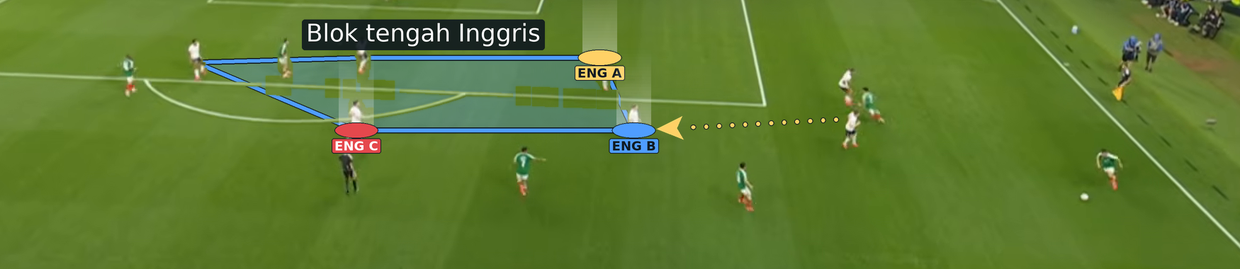
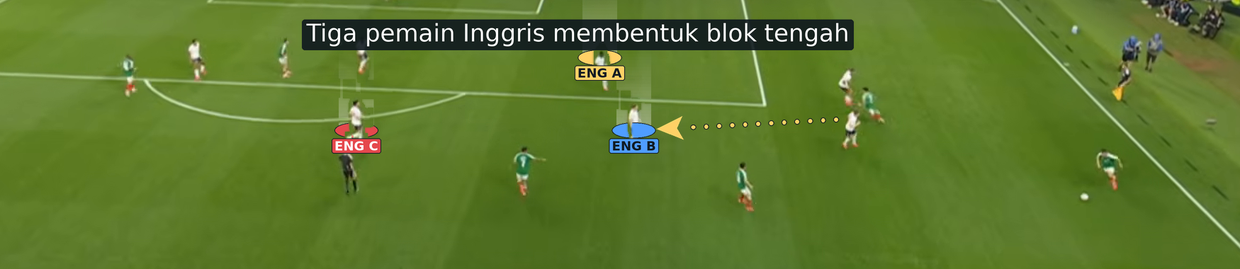
Release 0.1.0a11: layered player markers (ground) and refreshed real-match README still

Changed region(s): [[0.1532, 0.0595, 0.7048, 0.5353]]

diff --git a/src/once_sport_mcp/rendering.py b/src/once_sport_mcp/rendering.py
@@ -707,6 +707,7 @@ GROUND_KINDS = frozenset(
         "spotlight",
         "lob",
         "trail",
+        "player_marker",
     }
 )
 # Whole-mark opacity (a constant alpha on the painted mark) for strokes.
@@ -1134,10 +1135,16 @@ def _paint_frame(path, event, drawings, time, overlay_cache):
     _paint(
         path, event, grounded, time, overlay_cache["ground"], footer=False, ground=True
     )
+    # Layered player markers keep their text tag on top of the players.
+    tags = [
+        {**m, "ground": False, "tag_only": True}
+        for m in grounded
+        if m["kind"] == "player_marker"
+    ]
     _paint(
         path,
         event,
-        [m for m in drawings if not m.get("ground")],
+        [m for m in drawings if not m.get("ground")] + tags,
         time,
         overlay_cache["rest"],
     )
@@ -1376,36 +1383,43 @@ def _paint(
                 size = float(mark.get("size", 1.0))
                 rx = 0.0155 * width * scale * size
                 ry = rx * 0.34
+                tag_only = bool(mark.get("tag_only"))
                 column_h = 0.105 * height * scale * size
-                column = Image.new("RGBA", target_layer.size)
-                column_pen = ImageDraw.Draw(column)
-                steps = 24
-                for index in range(steps):
-                    column_pen.rectangle(
+                if not tag_only:
+                    column = Image.new("RGBA", target_layer.size)
+                    column_pen = ImageDraw.Draw(column)
+                    steps = 24
+                    for index in range(steps):
+                        column_pen.rectangle(
+                            (
+                                ax - rx * 0.82,
+                                ay - column_h * (index + 1) / steps,
+                                ax + rx * 0.82,
+                                ay - column_h * index / steps,
+                            ),
+                            fill=(
+                                255,
+                                255,
+                                255,
+                                round(95 * (1 - index / steps) ** 1.2),
+                            ),
+                        )
+                    target_layer = Image.alpha_composite(target_layer, column)
+                    target_pen = ImageDraw.Draw(target_layer)
+                    target_pen.ellipse(
                         (
-                            ax - rx * 0.82,
-                            ay - column_h * (index + 1) / steps,
-                            ax + rx * 0.82,
-                            ay - column_h * index / steps,
+                            ax - rx - scale,
+                            ay - ry - scale,
+                            ax + rx + scale,
+                            ay + ry + scale,
                         ),
-                        fill=(255, 255, 255, round(95 * (1 - index / steps) ** 1.2)),
+                        fill=halo,
                     )
-                target_layer = Image.alpha_composite(target_layer, column)
-                target_pen = ImageDraw.Draw(target_layer)
-                target_pen.ellipse(
-                    (
-                        ax - rx - scale,
-                        ay - ry - scale,
-                        ax + rx + scale,
-                        ay + ry + scale,
-                    ),
-                    fill=halo,
-                )
-                target_pen.ellipse((ax - rx, ay - ry, ax + rx, ay + ry), fill=color)
+                    target_pen.ellipse((ax - rx, ay - ry, ax + rx, ay + ry), fill=color)
                 tag = " | ".join(
                     part for part in (mark.get("position"), mark.get("text")) if part
                 )
-                if tag:
+                if tag and not ground:
                     tag_fill = mark.get("tag_color", "#FFFFFF")
                     tag_font = _font(max(10, round(height / 60)) * scale, bold=True)
                     box = target_pen.textbbox((0, 0), tag, font=tag_font)

diff --git a/tests/test_stabilize_ground.py b/tests/test_stabilize_ground.py
@@ -137,3 +137,37 @@ def test_ground_drawing_does_not_tint_players(tmp_path):
     assert (np.abs(player - 240).sum(axis=2) < 12).mean() > 0.9  # untouched
     tinted = out[100:140, 100:200]
     assert (tinted[:, :, 0] - frame[100:140, 100:200, 0].astype(int)).mean() > 20
+
+
+def test_layered_player_marker_keeps_the_player_on_top_and_the_tag_above(tmp_path):
+    np = pytest.importorskip("numpy")
+    from PIL import Image
+
+    frame = np.zeros((360, 640, 3), np.uint8)
+    for column in range(0, 640, 60):
+        frame[:, column : column + 60] = (
+            (52, 128, 48) if (column // 60) % 2 else (46, 118, 42)
+        )
+    frame[150:210, 300:318] = (240, 240, 240)  # a white-kit player, feet at y=210
+    path = tmp_path / "f.png"
+    Image.fromarray(frame).save(path)
+    marker = mark(
+        "player_marker",
+        points=[[309 / 640, 208 / 360]],
+        text="ENG",
+        color="#E5484D",
+        tag_color="#FFD166",
+        size=2.0,
+        ground=True,
+    )
+    cache = {"rest": [None, None], "ground": [None, None]}
+    rendering._paint_frame(path, EVENT, [marker], 0.5, cache)
+    out = np.asarray(Image.open(path).convert("RGB")).astype(int)
+    body = out[160:200, 304:314]
+    assert (np.abs(body - 240).sum(axis=2) < 12).mean() > 0.9  # column/ring not on him
+    ring = out[200:216, 260:360]
+    assert ((ring[:, :, 0] > 200) & (ring[:, :, 1] < 120)).sum() > 40  # ring on grass
+    tag = out[212:240, 270:350]
+    assert (
+        (tag[:, :, 0] > 230) & (tag[:, :, 1] > 190) & (tag[:, :, 2] < 140)
+    ).sum() > 40

diff --git a/README.md b/README.md
@@ -51,7 +51,7 @@ Turns a host agent's analysis of a football video into reviewed, reproducible ou
 ## Status
 <a id="section-status"></a>
 
-**Pre-release (`0.1.0a10`).** Interfaces may change. Tested on Linux with Python 3.13 and FFmpeg only.
+**Pre-release (`0.1.0a11`).** Interfaces may change. Tested on Linux with Python 3.13 and FFmpeg only.
 
 - Native Once export rejects holds, speed segments, text, flags and the newer drawing kinds; use the custom renderer for them.
 - Tracking is seeded by the host, one target per job. There is no re-identification, occlusion recovery or automatic player detection.
@@ -144,7 +144,7 @@ Drawing kinds (custom renderer): `ellipse`, `arrow`, `line`, `polygon`, `label`,
 - **Pitch templates:** `build_pitch_drawings` (CLI `pitch`) projects a circle, rectangle, half-spaces, five channels, zone 14, a zone grid, a cover shadow or an offside line through a 4-point pitch calibration (metres on a 105x68 pitch to normalized frame points), so shapes follow the pitch perspective. The calibration is fixed: use it for a static camera or a short shot. Pitch templates are projected with a fixed calibration, so combine them with `stabilize` for a moving camera.
 
   ![Pitch templates through a perspective calibration](assets/pitch-templates.png)
-- **Analyst-style telestration:** `player_marker` (a filled ellipse at the feet, a faint light column over the player and a `POSITION | NAME` tag below, with optional `tag_color` and `size`), `lob` (a lofted pass: a tapered arc plus a dark ground shadow, `arc` sets the height), `dash: "dotted"` for movement and marking arrows, `taper: true` for arrows and curves, and `board`, a top-down tactical board inset with numbered tokens, names, position codes and link lines (`players` in metres on a 105x68 pitch, `links` as player indexes, the panel is the rectangle between the two points). Arrows, curves, lobs and trails take `ground: true` to be painted under the players (only on grass and lines) and `opacity` (0.1-1) to be painted see-through; use `ground` first, `opacity` where the mask is unreliable. `start_gap` and `end_gap` (fractions of the frame height, 0-0.1) on `line`, `arrow`, `polyline`, `curve` and `lob` stop the path short of the player at either end, so an arrow starts and ends next to the players instead of on top of them. `build_formation_drawings` tags accept `"style": "marker"` (CLI `--tag POSITION:NAME:marker`). Position codes include `RWF`, `LWF`, `CMF`, `DMF`. Custom renderer only.
+- **Analyst-style telestration:** `player_marker` (a filled ellipse at the feet, a faint light column over the player and a `POSITION | NAME` tag below, with optional `tag_color` and `size`), `lob` (a lofted pass: a tapered arc plus a dark ground shadow, `arc` sets the height), `dash: "dotted"` for movement and marking arrows, `taper: true` for arrows and curves, and `board`, a top-down tactical board inset with numbered tokens, names, position codes and link lines (`players` in metres on a 105x68 pitch, `links` as player indexes, the panel is the rectangle between the two points). Arrows, curves, lobs, trails and player markers take `ground: true` to be painted under the players (only on grass and lines) and `opacity` (0.1-1) to be painted see-through; use `ground` first, `opacity` where the mask is unreliable. `start_gap` and `end_gap` (fractions of the frame height, 0-0.1) on `line`, `arrow`, `polyline`, `curve` and `lob` stop the path short of the player at either end, so an arrow starts and ends next to the players instead of on top of them. `build_formation_drawings` tags accept `"style": "marker"` (CLI `--tag POSITION:NAME:marker`). Position codes include `RWF`, `LWF`, `CMF`, `DMF`. Custom renderer only.
 
   ![Player markers, a lofted pass, dotted and tapered arrows and a tactical board](assets/telestration-styles.png)
 
@@ -182,11 +182,11 @@ Each frame carries a caption with time, team, phase and action. If a tracked pla
 
 ### On real match footage
 
-The same drawing kinds on stills from a real broadcast: Mexico v England, FIFA World Cup 2026 round of 16, 1080p. Markers and arrows are anchored at the players' feet; with `ground: true` they are painted under the players, and the dotted arrow keeps its head visible. Player tags are neutral (`ENG A`, `MEX A`); they do not claim identities.
+The same drawing kinds on stills from a real broadcast: Mexico v England, FIFA World Cup 2026 round of 16, 1080p. Markers and arrows are anchored at the players' feet. In the second still the ground ovals use `ground: true`, so the players stand in front of them while the text tags stay on top; the dotted arrow keeps its head visible. Player tags are neutral (`ENG A`, `MEX A`); they do not claim identities.
 
-| Midfield: lob, tapered run, space between the lines | Block shape, markers and a dotted pass |
+| Midfield: lob, tapered run, space between the lines | Layered player markers and a dotted pass |
 |---|---|
-| ![Mexico v England: player markers, a lofted pass, a tapered run and a shaded space between the lines](assets/real-match-midfield.png) | ![Mexico v England: England's block as a shaded area, three player markers and a dotted arrow](assets/real-match-block.png) |
+| ![Mexico v England: player markers, a lofted pass, a tapered run and a shaded space between the lines](assets/real-match-midfield.png) | ![Mexico v England: three layered ground markers with tags and a dotted arrow](assets/real-match-block.png) |
 
 These two stills are broadcast frames from a FIFA World Cup 2026 highlight, shown only to illustrate the drawing output; the footage belongs to its rights holders. The tool never ships footage; use your own clip.
 
